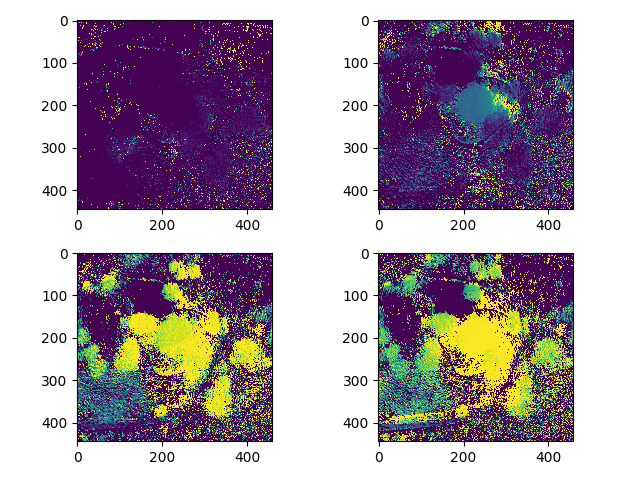
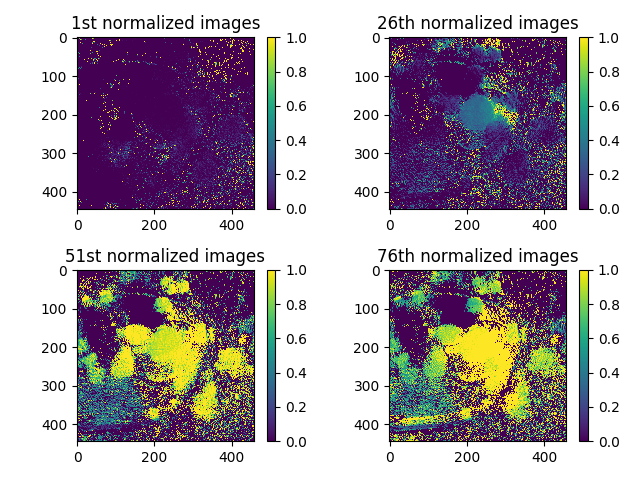
updated visualize images

diff --git a/visualize_images.py b/visualize_images.py
@@ -21,18 +21,26 @@ energies = loadmat(energy_path)['Es']
 # visualize raw images
 save_path = 'report\\'
 plt.figure(1)
-plt.subplot(221,)
+plt.subplot(221)
+plt.title('1st raw images')
 plt.imshow(images[:,:,0])
 #plt.clim(0, 1)
+plt.colorbar()
 plt.subplot(222)
+plt.title('26th raw images')
 plt.imshow(images[:,:,25])
 #plt.clim(0, 1)
+plt.colorbar()
 plt.subplot(223)
+plt.title('51st raw images')
 plt.imshow(images[:,:,50])
 #plt.clim(0, 1)
+plt.colorbar()
 plt.subplot(224)
+plt.title('76th raw images')
 plt.imshow(images[:,:,75])
 #plt.clim(0, 1)
+plt.colorbar()
 plt.tight_layout()
 plt.savefig(os.path.join(save_path, 'raw_images.png'))
 
@@ -40,18 +48,26 @@ plt.savefig(os.path.join(save_path, 'raw_images.png'))
 # visualize normalized images
 save_path = 'report\\'
 plt.figure(2)
-plt.subplot(221,)
+plt.subplot(221)
+plt.title('1st normalized images')
 plt.imshow(images_norm[:,:,0])
 plt.clim(0, 1)
+plt.colorbar()
 plt.subplot(222)
+plt.title('26th normalized images')
 plt.imshow(images_norm[:,:,25])
 plt.clim(0, 1)
+plt.colorbar()
 plt.subplot(223)
+plt.title('51st normalized images')
 plt.imshow(images_norm[:,:,50])
 plt.clim(0, 1)
+plt.colorbar()
 plt.subplot(224)
+plt.title('76th normalized images')
 plt.imshow(images_norm[:,:,75])
 plt.clim(0, 1)
+plt.colorbar()
 plt.tight_layout()
 plt.savefig(os.path.join(save_path, 'normalized_images.png'))
 plt.close('all')
